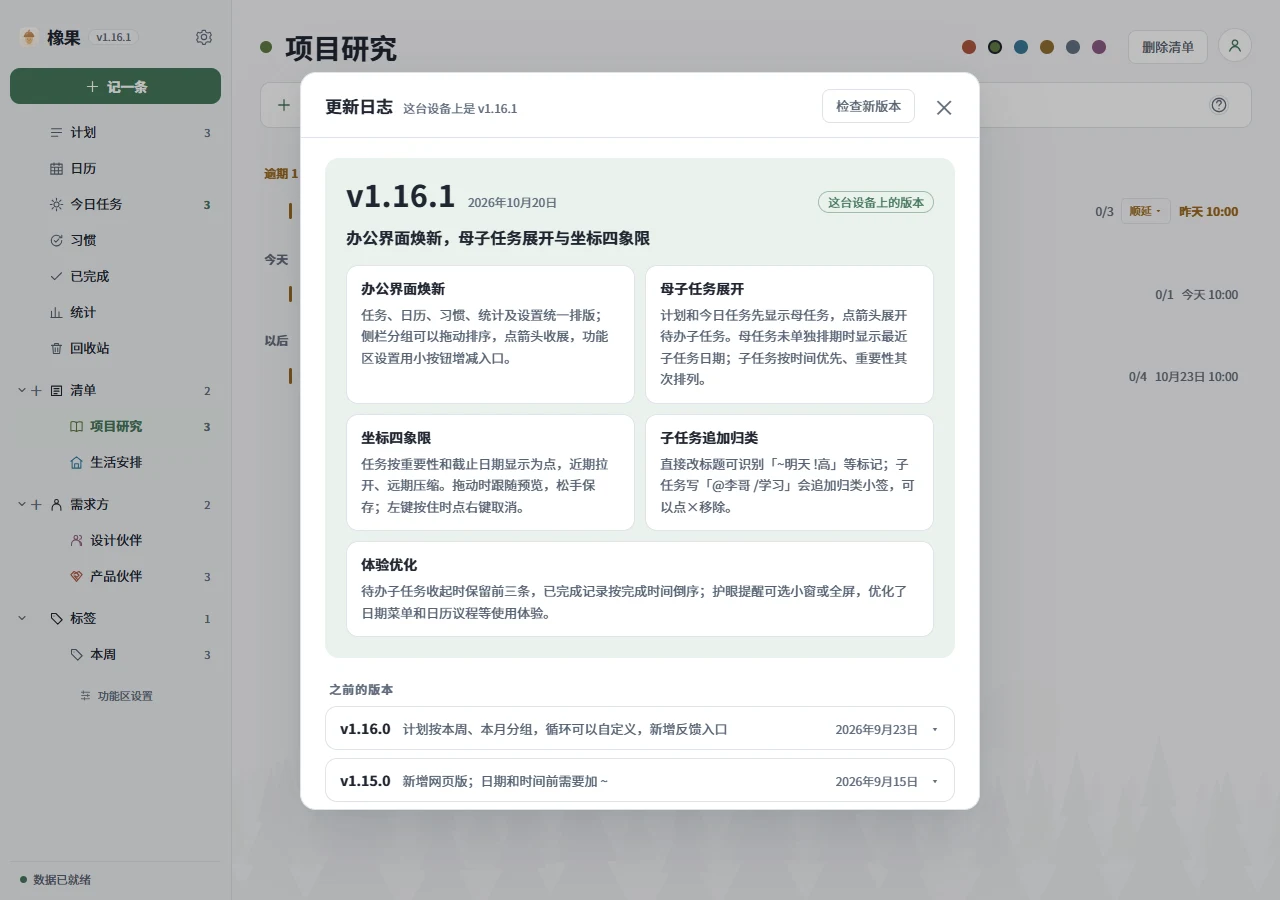
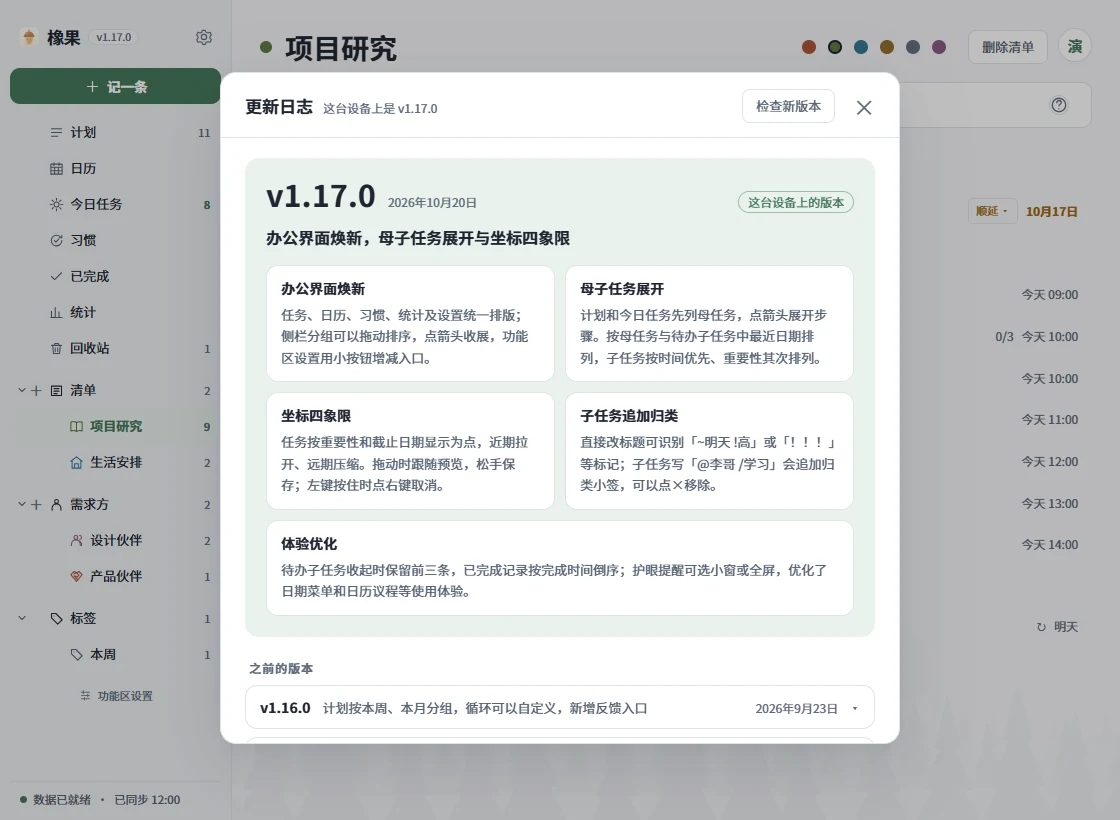
docs: finalize desktop delivery and disable web and mobile entries

diff --git a/工程/tests/review-0921.test.ts b/工程/tests/review-0921.test.ts
@@ -197,11 +197,19 @@ import { existsSync, readFileSync } from "node:fs";
 // 验收工具不入git。详细验法随发布进入历史，发布后继续检查，不能因pending清空而漏验。
 const PENDING = "../_work/验收单工具/最新改动.json";
 const RELEASE_CHECKS = "../_work/验收单工具/发布验收.json";
+const CANDIDATES = "../_work/验收单工具/候选归档/";
 type ReviewCheck = { id: string; what: string; how: string[]; verified: boolean; screens: { src: string }[]; current?: Partial<ReviewCheck> };
-type ReleaseChecks = { checks?: ReviewCheck[] };
+type ReleaseChecks = { checks?: ReviewCheck[]; note?: string; statusLabel?: string };
 describe.skipIf(!existsSync(PENDING))("验收单（待核与正式历史）", () => {
   const pend = existsSync(PENDING) ? JSON.parse(readFileSync(PENDING, "utf8")) : {};
   const archive: Record<string, ReleaseChecks | string> = existsSync(RELEASE_CHECKS) ? JSON.parse(readFileSync(RELEASE_CHECKS, "utf8")) : {};
+  // 这些项目内资产不入git；整个describe沿原模式在没有本地验收资产的新clone跳过。
+  // 资产存在时，稳定文件名指向完整候选，不依赖某次备份的时间戳。
+  const candidate = (name: string) => {
+    const path = CANDIDATES + name;
+    expect(existsSync(path), `完整候选应保全：${name}`).toBe(true);
+    return JSON.parse(readFileSync(path, "utf8"));
+  };
   const pendingItems = (p: string): ReviewCheck[] => pend[p]?.items ?? [];
   const items = (p: string): ReviewCheck[] => [
     ...pendingItems(p),
@@ -217,23 +225,30 @@ describe.skipIf(!existsSync(PENDING))("验收单（待核与正式历史）", ()
   it("网页没有「更新弹窗」那一项", () => {
     expect(items("web").map((x) => x.id)).not.toContain("w-2609d-dialog");
   });
-  it("桌面说明：攒着改动时写明对应哪个测试版、已经装了；刚发完正式版时写明发的是几号", () => {
+  it("桌面说明区分待核测试版与正式交付资料，不把准备中冒充已发布", () => {
     // 不钉死整句——每打一次新测试版这句话就会改一次，只钉这层意思
     if (pendingItems("desktop").length) {
       expect(pend.desktop.note).toMatch(/beta\.\d+/);
       expect(pend.desktop.note).toContain("已装到这台电脑");
     } else {
-      expect(pend.desktop.note).toMatch(/\d+\.\d+\.\d+ 已于 \d{4}-\d{2}-\d{2} 正式发布/);
+      expect(pend.desktop.since).toBe("1.17.0");
+      expect(pend.desktop.note).toContain("1.17.0");
+      expect(pend.desktop.note).toMatch(/发布状态以最终交付通知为准|已于 \d{4}-\d{2}-\d{2} 正式发布/);
     }
   });
-  it("本轮正式历史完整保留旧桌面14条、网页34条，并增加今天实际交付的逐项验法", () => {
-    for (const [p, version, oldCount] of [["desktop", "1.16.1", 14], ["web", "1.15.1", 34]] as const) {
-      if (pendingItems(p).length) continue;
-      const entry = archive[`${p}|${version}`] as ReleaseChecks | undefined;
-      expect(entry, `${p}正式发布后详细验法必须归档`).toBeDefined();
+  it("桌面1.17保留19项原始验法，并补单包Plus、开关保图和最近子日期", () => {
+      const entry = archive["desktop|1.17.0"] as ReleaseChecks | undefined;
+      const original = candidate("desktop-1.16.1-发布前候选.json")["desktop|1.16.1"] as ReleaseChecks;
+      expect(archive["desktop|1.16.1"]).toBeUndefined();
+      expect(entry?.checks?.length).toBeGreaterThanOrEqual(23);
+      for (const old of original.checks ?? []) {
+        const retained = entry?.checks?.find((it) => it.id === old.id);
+        expect(retained, `${old.id}原文、验法、截图及人工状态完整保留`).toMatchObject({
+          id: old.id, what: old.what, how: old.how, screens: old.screens, verified: old.verified,
+        });
+      }
       const deliveredIds = ["261020-parent-expand", "261020-child-time-order", "261020-child-actions", "261020-existing-child-priority",
-        ...(p === "desktop" ? ["261020-ultra-image-stack"] : [])];
-      expect(entry?.checks?.length).toBeGreaterThanOrEqual(oldCount + deliveredIds.length);
+        "261020-ultra-image-stack", "261020-nearest-child-with-parent-date", "261020-plus-single-package", "261020-plus-bower-toggle", "261020-plus-ordinary-roundtrip"];
       for (const id of deliveredIds) {
         const check = entry?.checks?.find((it) => it.id === id);
         expect(check?.what.length, id).toBeGreaterThan(20);
@@ -241,22 +256,51 @@ describe.skipIf(!existsSync(PENDING))("验收单（待核与正式历史）", ()
       }
       expect(entry?.checks?.some((it) => it.screens.length > 0)).toBe(true);
       expect(new Set(entry?.checks?.map((it) => it.id)).size).toBe(entry?.checks?.length);
-    }
+      expect(entry?.checks?.every((it) => !it.verified && !it.current?.verified)).toBe(true);
   });
-  it("网页那几项没有浏览器做不到的操作", () => {
+  it("未发布web1.15.1完整38项只存候选，web1.17只记开发中入口", () => {
+    const original = candidate("web-1.15.1-未发布候选.json")["web|1.15.1"] as ReleaseChecks;
+    expect(original.checks).toHaveLength(38);
+    expect(original.checks?.every((it) => !it.verified)).toBe(true);
+    expect(archive["web|1.15.1"]).toBeUndefined();
+    const gate = archive["web|1.17.0"] as ReleaseChecks;
+    expect(gate.statusLabel).toBe("开发中");
+    expect(gate.checks?.map((it) => it.id)).toEqual(["261020-web-development-gate"]);
+    expect(gate.checks?.[0].what).toContain("不登录同步账本");
+    expect(pend.web.note).toContain("正在开发中");
+    expect(pend.web.note).not.toContain("已于");
+    expect(items("web").some((it) => it.id === "w-2609d-autopull")).toBe(false);
+  });
+  it("Android原25项与整块说明不变，不因Windows发布自动清空或核通过", () => {
+    const original = candidate("android-1.15.0-待核基线.json").android;
+    expect(pend.android).toEqual(original);
+    expect(pendingItems("android")).toHaveLength(25);
+    expect(pendingItems("android").every((it) => !it.verified)).toBe(true);
+  });
+  it("未发布网页候选仍完整保留浏览器能力边界", () => {
+    const candidates: ReviewCheck[] = candidate("web-1.15.1-未发布候选.json")["web|1.15.1"].checks;
     for (const w of ["托盘", "拖窗口", "快捷记浮窗", "关掉橡果"]) {
-      for (const id of ["w-2609d-autopull", "w-2609d-sidew", "w-2609d-multiline"]) expect(text("web", id), `${id} ${w}`).not.toContain(w);
+      for (const id of ["w-2609d-autopull", "w-2609d-sidew", "w-2609d-multiline"]) {
+        const item = candidates.find((it) => it.id === id)!;
+        expect(item, id).toBeDefined();
+        expect([item.what, ...item.how].join("\n"), `${id} ${w}`).not.toContain(w);
+      }
     }
   });
   it("桌面和电脑浏览器那几项叫「今日任务页」；收起的链头才代表整件事", () => {
-    // 09-23桌面旧条目已并入1.16.0摘要；网页详细条目无论待核或已归档都要继续核。
-    const pairs = [["desktop", "d-2609d-postpone"], ["desktop", "d-2609d-ctx"], ["web", "w-2609d-postpone"], ["web", "w-2609d-ctx"]]
+    // 旧网页验法属于未发布候选，保全措辞检查但不得因此放进正式记录。
+    const candidates: ReviewCheck[] = candidate("web-1.15.1-未发布候选.json")["web|1.15.1"].checks;
+    const pairs = [["desktop", "d-2609d-postpone"], ["desktop", "d-2609d-ctx"]]
       .filter(([p, id]) => items(p).some((x) => x.id === id));
-    expect(pairs.some(([p]) => p === "web")).toBe(true);
     for (const [p, id] of pairs) expect(text(p, id), id).not.toContain("今天页");
     if (items("desktop").some((x) => x.id === "d-2609d-ctx")) {
       expect(text("desktop", "d-2609d-ctx")).not.toContain("右键也是「整件事 · 名字」");
     }
-    expect(text("web", "w-2609d-ctx")).not.toContain("右键也是「整件事 · 名字」");
+    for (const id of ["w-2609d-postpone", "w-2609d-ctx"]) {
+      const item = candidates.find((it) => it.id === id)!;
+      expect(item, id).toBeDefined();
+      expect([item.what, ...item.how].join("\n")).not.toContain("今天页");
+      if (id.endsWith("ctx")) expect([item.what, ...item.how].join("\n")).not.toContain("右键也是「整件事 · 名字」");
+    }
   });
 });

diff --git a/网站/index.html b/网站/index.html
@@ -70,7 +70,7 @@
              data-href="https://acorn.cdpandas.com/download/windows/Acorn-latest-x64-setup.exe"
              data-api="https://acorn.cdpandas.com/api/desktop/latest"
              data-version="1.17.0"
-             data-size=""></div>
+             data-size="7343858"></div>
         <div data-download-item
              data-label="安卓"
              data-sub="开发中，暂未开放下载"
@@ -179,27 +179,33 @@
     <div class="shots">
 
       <figure class="shot">
-        <img src="assets/shot-today.webp" width="1280" height="900" loading="lazy" decoding="async"
-             alt="今日任务：逾期在上，母任务点箭头展开待办步骤；侧栏按清单、需求方和标签分组">
-        <figcaption><b>今天</b>：逾期在上，今天在中，做完的沉下去；侧栏按清单、需求方、标签各分一栏。</figcaption>
+        <img src="assets/shot-today.webp" width="1120" height="820" loading="lazy" decoding="async"
+             alt="计划：母任务与子步骤合并展示；母截止较晚时仍按最近待办子任务排列">
+        <figcaption><b>计划</b>：点箭头展开待办步骤；按母任务与待办子任务中最近的日期排列，子任务按时间、重要性排序。</figcaption>
       </figure>
 
       <figure class="shot">
-        <img src="assets/shot-changelog.webp" width="1280" height="900" loading="lazy" decoding="async"
+        <img src="assets/shot-changelog.webp" width="1120" height="820" loading="lazy" decoding="async"
              alt="更新日志弹窗：最新版本一张主卡，一句话概括加几张新能力小卡；之前的版本折成一行一版">
         <figcaption><b>更新日志</b>：打开橡果会自己查有没有新版，这里也能手动查；之前的版本折成一行一版。</figcaption>
       </figure>
 
       <figure class="shot">
-        <img src="assets/shot-calendar.webp" width="1280" height="900" loading="lazy" decoding="async"
+        <img src="assets/shot-calendar.webp" width="1120" height="820" loading="lazy" decoding="async"
              alt="日历月视图：任务按到期日落在格子里，做完的打勾；顶上可以切到按周看，也能只看计划或只看已完成">
         <figcaption><b>日历</b>：顶上切月 / 周两种看法，全部 / 计划 / 已完成三档筛。</figcaption>
       </figure>
 
       <figure class="shot">
-        <img src="assets/shot-settings.webp" width="1280" height="900" loading="lazy" decoding="async"
-             alt="设置页：外观区六款主题各配一张风景缩略图，深浅模式可选；云账号一节可注册或登录，不登录也完全能用">
-        <figcaption><b>设置</b>：六款主题各配一幅画，深浅两色随手切；云账号可选，不登录一切照旧。</figcaption>
+        <img src="assets/shot-settings.webp" width="1120" height="820" loading="lazy" decoding="async"
+             alt="设置页：功能区、主题、数据备份、导入导出和版本更新分区排列">
+        <figcaption><b>设置</b>：主题、功能入口、数据备份与更新集中管理，数据保存在自己的电脑上。</figcaption>
+      </figure>
+
+      <figure class="shot">
+        <img src="assets/shot-plus.webp" width="1120" height="820" loading="lazy" decoding="async"
+             alt="Plus附图：主任务和子任务右侧显示图片缩略图，多张图片用叠影及数字标记">
+        <figcaption><b>Plus附图</b>：同一安装包，Plus账号可添加图片；保存后收成右侧缩略图，点开查看完整图片。配图均为演示数据。</figcaption>
       </figure>
 
     </div>

diff --git a/00-说明.md b/00-说明.md
@@ -3,13 +3,13 @@
 > **外层这几个文件夹是给你的，工程件全收进 `工程/` 了，你不用点进去。**
 > 下面这张表告诉你该去哪儿。
 
-**10-20 正在交付 Windows 1.17.0 统一安装包**：Plus由账号自动识别，你的Bower账号可在设置独有开关中启停。母任务按最近待办子日期排列，标题可用！！！改重要性，图片保存在右侧缩略图中。网页和手机入口暂时置灰，网页版直达显示“正在开发中”，当前优先桌面版本。最终发布与安装结果见本轮交付报告；验收仍由你勾选。
+**10-20 已发布并安装 Windows 1.17.0 统一包**：Plus由账号自动识别，你的Bower账号可在「设置 → 数据 → Plus」独有开关中启停。母任务按最近待办子日期排列，标题可用！！！改重要性，图片保存在右侧缩略图中。网页和手机入口暂时置灰，网页版直达显示“正在开发中”，当前优先桌面版本。完整结果见 [`本轮交付报告`](_work/261020-1.17.0交付报告.md)；验收仍由你勾选。
 
 ## 东西都在哪
 
 | | |
 |---|---|
-| `安装包/` | 双击就装的 exe / 安卓 APK。正式版最新：电脑 v1.16.0（2026-09-23）、安卓 v1.15.0（三端各排各的号）；**「橡果 beta 安装包.exe」是还没发布的测试版**（装上后版本号那里显示 beta），每次做完我直接装到你这台上，这个文件永远是最新那一个 |
+| `安装包/` | 当前电脑统一正式包 `橡果 v1.17.0 安装包.exe`，普通与Plus共用。安卓旧包v1.15.0留档，本轮不发；旧Ultra／beta安装包仅供历史追溯，不是本轮交付 |
 | `交付验收/` | **一个大版本一份验收单**：v1 全在 `橡果 v1 怎么验.html` 里，按网站 / 安卓 / 桌面分开看，最新改动在最上面；分待核 / 待发布 / 已发布，本地阶段全部待核 |
 | `方案/` | 给你拍板的东西，一件一个文件：长子任务展示方案、字体方案（已定）、手机端体验方案 + 设计稿 |
 | `界面截图/` | 它长什么样，按版本分文件夹 |
@@ -24,9 +24,9 @@
 |---|---|
 | **装它（电脑）** | [`安装包/`](安装包/) —— 双击就装，装完开始菜单里叫「橡果」 |
 | **装它（手机）** | 手机上已有橡果的：设置 → 版本更新，自己下自己装。第一次装：[`安装包/`](安装包/) 里的 `.apk` 传到手机点开（GitHub Releases 那份要等发版才更新） |
-| **不装也想用（新）** | 浏览器打开 <https://acorn.cdpandas.com/> 就是橡果本体（旧址 /app/ 会自动跳过来），登录同一个邮箱看到同一份事。iPhone：分享 → 添加到主屏幕，就跟个 App 一样 |
+| **网页版** | 目前暂缓开放，直接打开 <https://acorn.cdpandas.com/> 显示“正在开发中”；请使用Windows桌面版 |
 | **验收**（全部 v1：最新改动 + 已发布的 21 个版本，三端分开） | [`交付验收/橡果 v1 怎么验.html`](交付验收/橡果%20v1%20怎么验.html) —— 双击打开；以前一版一份的旧单子收在 `_work/归档/旧验收单/` |
-| **看它长什么样** | [`界面截图/`](界面截图/) —— 按日期 / 版本分文件夹；`2026-10-16/` 是本轮调整，`2026-10-15/` 是侧栏、护眼、日期等演示截图 |
+| **看它长什么样** | [`界面截图/2026-10-20/Plus统一包/`](界面截图/2026-10-20/Plus统一包/) 是当前1.17实际组件演示图；历史截图按日期保留，不称为真机截图 |
 | **长子任务折叠** | 在软件中点开任务卡，超过三条时点「待办子任务」收起留前三／展开其余；三条以内全显。原来的 [`网页方案`](方案/电脑长子任务展示方案.html) 仅归档参考 |
 | **使用 Plus（仅 Windows）** | 同一个Windows安装包，登录有Plus资格的账号后自动显示图片功能。只有你的Bower账号能在设置开关Plus；关闭时隐藏图片，数据保留，重新打开即恢复 |
 | **看手机版的设计稿** | [`方案/手机端设计稿/预览/`](方案/手机端设计稿/预览/) —— 9 张画板 + 3 张「质感方向」（方向A/B/C，等你选）；方案说明在 [`方案/手机端方案.md`](方案/手机端方案.md) |

diff --git a/工程/README.md b/工程/README.md
@@ -7,9 +7,9 @@
 
 ## 本轮发布（2026-10-20）
 
-Windows统一安装包1.17.0正在最终验收；账号资格决定Plus附加功能，正式／beta通道与Plus独立。计划／今日任务改为母任务加箭头展开，按母子待办最近日期定位；待办子按时间主、重要性次排序。桌面子行不再提供放弃按钮，Plus同位置小加号选图，粘贴、拖入继续可用；保存后右侧一枚缩略图，多图叠层计数。
+Windows统一安装包1.17.0已正式发布并安装本机；账号资格决定Plus附加功能，正式／beta通道与Plus独立。计划／今日任务改为母任务加箭头展开，按母子待办最近日期定位；待办子按时间主、重要性次排序。桌面子行不再提供放弃按钮，Plus同位置小加号选图，粘贴、拖入继续可用；保存后右侧一枚缩略图，多图叠层计数。
 
-本轮聚焦桌面：网页版和手机版下载入口置灰不可选，网页版直达只显示“正在开发中”，不加载账号、账本或同步；Android正式仍1.15.0，不重新打包。最终发布／装机事实以本轮交付报告为准。
+本轮聚焦桌面：网页版和手机版下载入口置灰不可选，网页版直达只显示“正在开发中”，不加载账号、账本或同步；Android正式仍1.15.0，不重新打包。本机安装前后66任务／5清单、账本SHA与指针一致；110文件2771测试、40构建及网站测试、98实际组件检查通过。最终证据见`../_work/261020-1.17.0交付报告.md`。
 
 手机跟随清单：安卓尚未重新打包本批共享源；手机信息结构、滑动与操作抽屉保持既定节奏，桌面母子树和加图不据此视为手机已提供。
 
@@ -31,7 +31,7 @@ Windows统一安装包1.17.0正在最终验收；账号资格决定Plus附加功
 
 只下载一个完整Windows包，登录后按服务器确认的Plus资格显示图片附加功能；其他办公功能、界面与更新通道完全共用。已授权Bower账号在设置独有Plus启停开关，只影响本机功能显示，不撤销账号资格、不删图；其他Plus账号没有开关并自动开启。未授权、退出登录或关闭Plus时不展示图片入口、缩略图或计数，读取、修改、合并、备份及导出仍保留可选 `images` 与未知字段，数据版本8；恢复Plus原图照常显示。
 
-输入只接受 JPEG/PNG/WebP；解码前限制原文件20MiB、四千万像素及单边16384，压缩后为最长1920像素/单张最多256KiB的JPEG，每个任务或子任务最多8张。所有新增图以内联 data URL 合计20MiB控制；复制到循环历史的既有图保留。离线可以添加，容量不足只拦新增图片。获Ultra下载资格的账号云账本上限32MiB，普通账号5MiB；云超限时保留本机数据并提示，完成和删除本机任务始终可用。
+输入只接受 JPEG/PNG/WebP；解码前限制原文件20MiB、四千万像素及单边16384，压缩后为最长1920像素/单张最多256KiB的JPEG，每个任务或子任务最多8张。所有新增图以内联 data URL 合计20MiB控制；复制到循环历史的既有图保留。离线可以添加，容量不足只拦新增图片。Plus账号云账本上限32MiB，普通账号5MiB；云超限时保留本机数据并提示，完成和删除本机任务始终可用。
 
 主任务、子任务、记一条和Alt+Space支持在文字输入处粘贴或拖入图片；子任务小加号也能多选本地图片。保存后右侧只显示一枚缩略图，多张时叠层计数，点击展开完整图片集合。图片处理或选择期间若关闭Plus、登出、换号或切换目标，旧异步结果不会写入任务。
 
